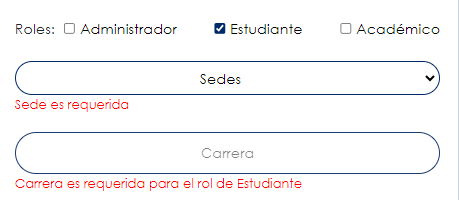
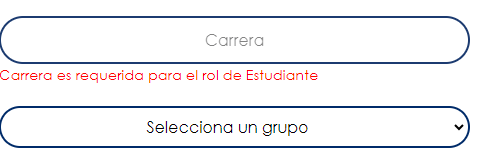
GuiaAcademica: Usuario, grupos y carga masiva

Changed region(s): [[0.0, 0.1026, 1.0, 0.5641], [0.0, 0.641, 1.0, 0.9487]]

diff --git a/frontend/src/pages/GuiasUsuarios/GuiaAdministrativo.js b/frontend/src/pages/GuiasUsuarios/GuiaAdministrativo.js
@@ -301,6 +301,11 @@ function GuiaAdmininistrativo() {
                 </a>
               </li>
               <li>
+                <a className="interlink-guiaIn" href="#cargaMa">
+                  Carga masiva
+                </a>
+              </li>
+              <li>
                 <a className="interlink-guiaIn" href="#sociosC">
                   Socios Comunitarios
                 </a>
@@ -374,18 +379,206 @@ function GuiaAdmininistrativo() {
               detallado de los estudiantes participantes en ese proyecto
               específico.
             </li>
-            <img  src={Pagn1} alt="Pagn1 " className=" fade-in centered medium-image" />
-
-
-
-
-
-
+            <img
+              src={Pagn1}
+              alt="Pagn1 "
+              className=" fade-in centered large-image"
+            />
+            <li>
+              En esta sección de reporte de género se personaliza según el
+              periodo académico seleccionado. Una vez indicados el año y el
+              cuatrimestre, y al hacer clic en 'Buscar', se presentará un
+              gráfico circular que representa visualmente la proporción de
+              estudiantes por género. Adicionalmente, se mostrará una tabla con
+              los datos numéricos correspondientes.
+            </li>
+            <img
+              src={Pagn2}
+              alt="Pagn2 "
+              className=" fade-in centered large-image"
+            />
+            <li>
+              Para obtener una versión imprimible del reporte de género,
+              simplemente haz clic en el botón de descarga. El sistema generará
+              un archivo PDF que podrás guardar en tu dispositivo y compartir
+              con otros usuarios autorizados
+            </li>
+            <img
+              src={Pagn3}
+              alt="Pagn3 "
+              className=" fade-in centered large-image"
+            />
           </ul>
-          <img alt="paginaInciAc" className=" fade-in centered medium-image" />
         </div>
         {/* Section explicacion de usuarios */}
+
+        <div className="section-guias" id="usuarios">
+          <h3 className="titulos-guiaIn">Usuarios</h3>
+          <div className="naranja-divider" />
+          <p>
+            Esta sección te permite gestionar de forma eficiente a todos los
+            usuarios del sistema. Podrás realizar cargas masivas de datos a
+            través de plantillas, buscar usuarios por identificación o nombre,
+            filtrar por estado (activo o inactivo) y rol (académico,
+            administrativo, estudiante). Además, podrás agregar nuevos usuarios
+            haciendo clic en el botón <strong> + </strong> y editar la
+            información de los usuarios existentes haciendo clic en el
+            <strong> icono del lápiz </strong> ubicado en la columna de acciones
+          </p>
+          <img
+            src={Usuarios}
+            alt="Usuarios "
+            className=" fade-in centered medium-image"
+          />
+          <p>Para agregar un nuevo usuario, sigue estos pasos:</p>
+          <ol>
+            <li>
+              Haz clic en el botón <strong> Agregar usuario </strong>.
+            </li>
+            <li>Se abrirá un formulario.</li>
+            <li>Completa todos los campos requeridos.</li>
+            <li>Haz clic en 'Guardar' para finalizar el proceso.</li>
+          </ol>
+          <img
+            src={CrearUsuario}
+            alt="CrearUsuario "
+            className=" fade-in centered small-image"
+          />
+          <p>
+            Al seleccionar el rol de <strong> Estudiante</strong>, se activarán
+            dos campos adicionales: <strong> Carrera</strong> y{" "}
+            <strong> Selecciona un grupo</strong>. Estos campos son obligatorios
+            para completar el registro de un estudiante. Por favor, especifica
+            la carrera que cursa y el grupo al que pertenece
+          </p>
+          <img
+            src={SeleccionarRol}
+            alt="SeleccionarRol "
+            className=" fade-in centered small-image"
+          />
+        </div>
+
         {/* Section explicacion de grupos */}
+        <div className="section-guias" id="grupos">
+          <h3 className="titulos-guiaIn">Grupos</h3>
+          <div className="celes-divider " />
+          <p>En esta sección se divide es dos partes:</p>
+          <ol>
+            <li>
+              <strong>Proyectos: </strong>
+              <ul>
+                <li>
+                  Esta sección te permite gestionar todos tus proyectos de
+                  manera eficiente. Puedes buscar proyectos específicos por su
+                  código, nombre o modalidad (presencial, virtual o híbrida).
+                  Además, puedes agregar nuevos proyectos con un simple clic en
+                  el botón <strong> + </strong> o editar los existentes haciendo
+                  clic en el <strong> icono del lápiz </strong>. Para cargar
+                  varios proyectos a la vez, utiliza la opción 'Carga Masiva'
+                </li>
+                <img
+                  src={Proyectos}
+                  alt="Proyectos"
+                  className=" fade-in centered large-image"
+                />
+                <li>
+                  Al hacer clic en <strong>Agregar proyectos</strong> accederás
+                  a un formulario. En este formulario te pedirá que ingreses
+                  ciertos datos esenciales y es importante que completes todos
+                  los campos obligatorios antes de guardar. Una vez que hayas
+                  llenado toda la información, haz clic en el botón{" "}
+                  <strong> Guardar</strong> para agregar el proyecto a la lista.
+                </li>
+                <img
+                  src={CrearProyectos}
+                  alt="CrearProyectos"
+                  className=" fade-in centered small-image"
+                />
+              </ul>
+            </li>
+            <li>
+              <strong> Creación de grupos: </strong>
+              <ul>
+                <li>
+                  Esta sección encontrarás un listado completo de todos los
+                  grupos. Puedes buscar grupos por código o nombre de proyectos
+                  , por cuatrimestre y año. Para agregar nuevos grupos, haz clic
+                  en 'Agregar Grupos' y para editar los grupos existentes con el
+                  icono del lápiz. Tambien, puedes cargar múltiples grupos a la
+                  vez usando la opción 'Carga Masiva' y ademas puedes activar o
+                  desahilitar el boton de finalizar los cuatrimestres para que
+                  los academicos puedan finalizar el cuatrimestre de sus grupos.
+                </li>
+                <img
+                  src={Grupos}
+                  alt="Grupos"
+                  className=" fade-in centered large-image"
+                />
+                <li>
+                  Cuando desees crear un nuevo grupo, haz clic en el botón
+                  <strong> Agregar Creación de Grupos</strong>. Aparecerá un
+                  formulario donde deberás ingresar toda la información
+                  solicitada. Una vez que hayas completado todos los campos
+                  obligatorios, el botón 'Guardar' se habilitará y podrás
+                  registrar el nuevo grupo.
+                </li>
+                <img
+                  src={CrearGrupos}
+                  alt="CrearGrupos"
+                  className=" fade-in centered small-image"
+                />
+              </ul>
+            </li>
+          </ol>
+        </div>
+
+        {/* Section explicacion de la carga Masiva */}
+        <div className="section-guias " id="cargaMa">
+          <h3 className="titulos-guiaIn">Carga Masiva</h3>
+          <div className="celes-divider" />
+          <p>Sigue estos pasos:</p>
+          <ol>
+            <li>
+              <strong>Obtener las Plantillas: </strong>
+              <ul>
+                <li>Dirígete a la sección "Información".</li>
+                <li>Busca y descarga las plantillas</li>
+              </ul>
+            </li>
+            <li>
+              <strong> Revisa el formato:</strong> Asegúrate de comprender el
+              formato de cada columna en las plantillas.
+            </li>
+            <li>
+              <strong> Ingresa los datos:</strong> Llena cada plantilla con la
+              información requerida
+            </li>
+            <li>
+              <strong> Asegúrate de la precisión:</strong> Verifica que todos
+              los datos sean correctos
+            </li>
+            <li>
+              <strong>Académicos:</strong> Ve a la sección "Usuarios" y utiliza
+              la opción de carga masiva.
+            </li>
+            <li>
+              <strong>Proyectos:</strong> Dirígete a la sección "Proyectos" y
+              carga la plantilla correspondiente.
+            </li>
+            <li>
+              <strong> Grupos:</strong> Accede a la sección "Creación de Grupos"
+              y sube la plantilla de grupos.
+            </li>
+            <li>
+              <strong> Estudiantes:</strong> Vuelve a la sección "Usuarios" y
+              utiliza la opción de carga masiva de estudiantes.
+            </li>
+            <li>
+              <strong> Carreras:</strong> En la sección "Usuarios", busca la
+              opción de carga masiva de carreras.
+            </li>
+          </ol>
+        </div>
 
         {/* Botón flotante */}
         <button className="scroll-to-top" onClick={handleScrollToTop}>
